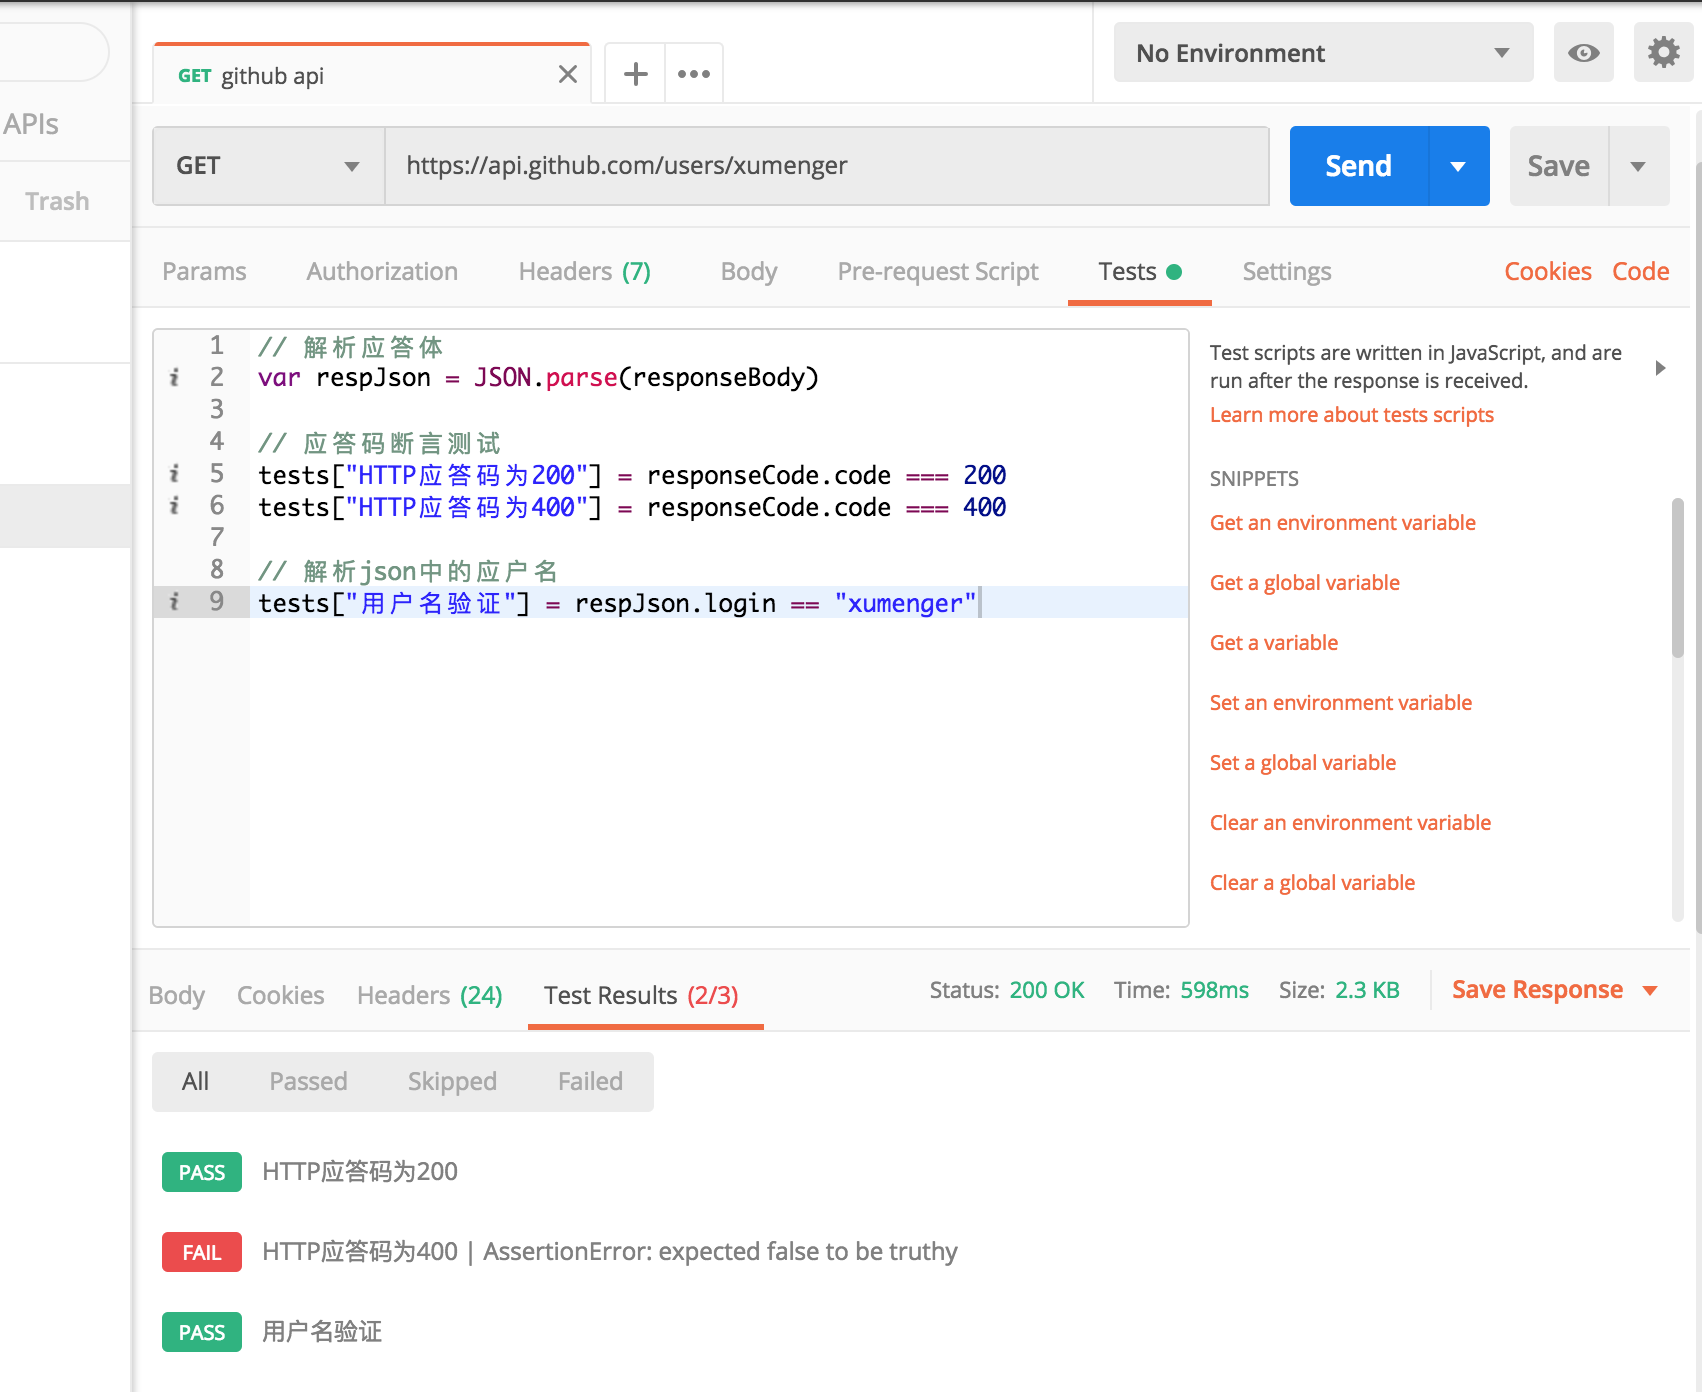
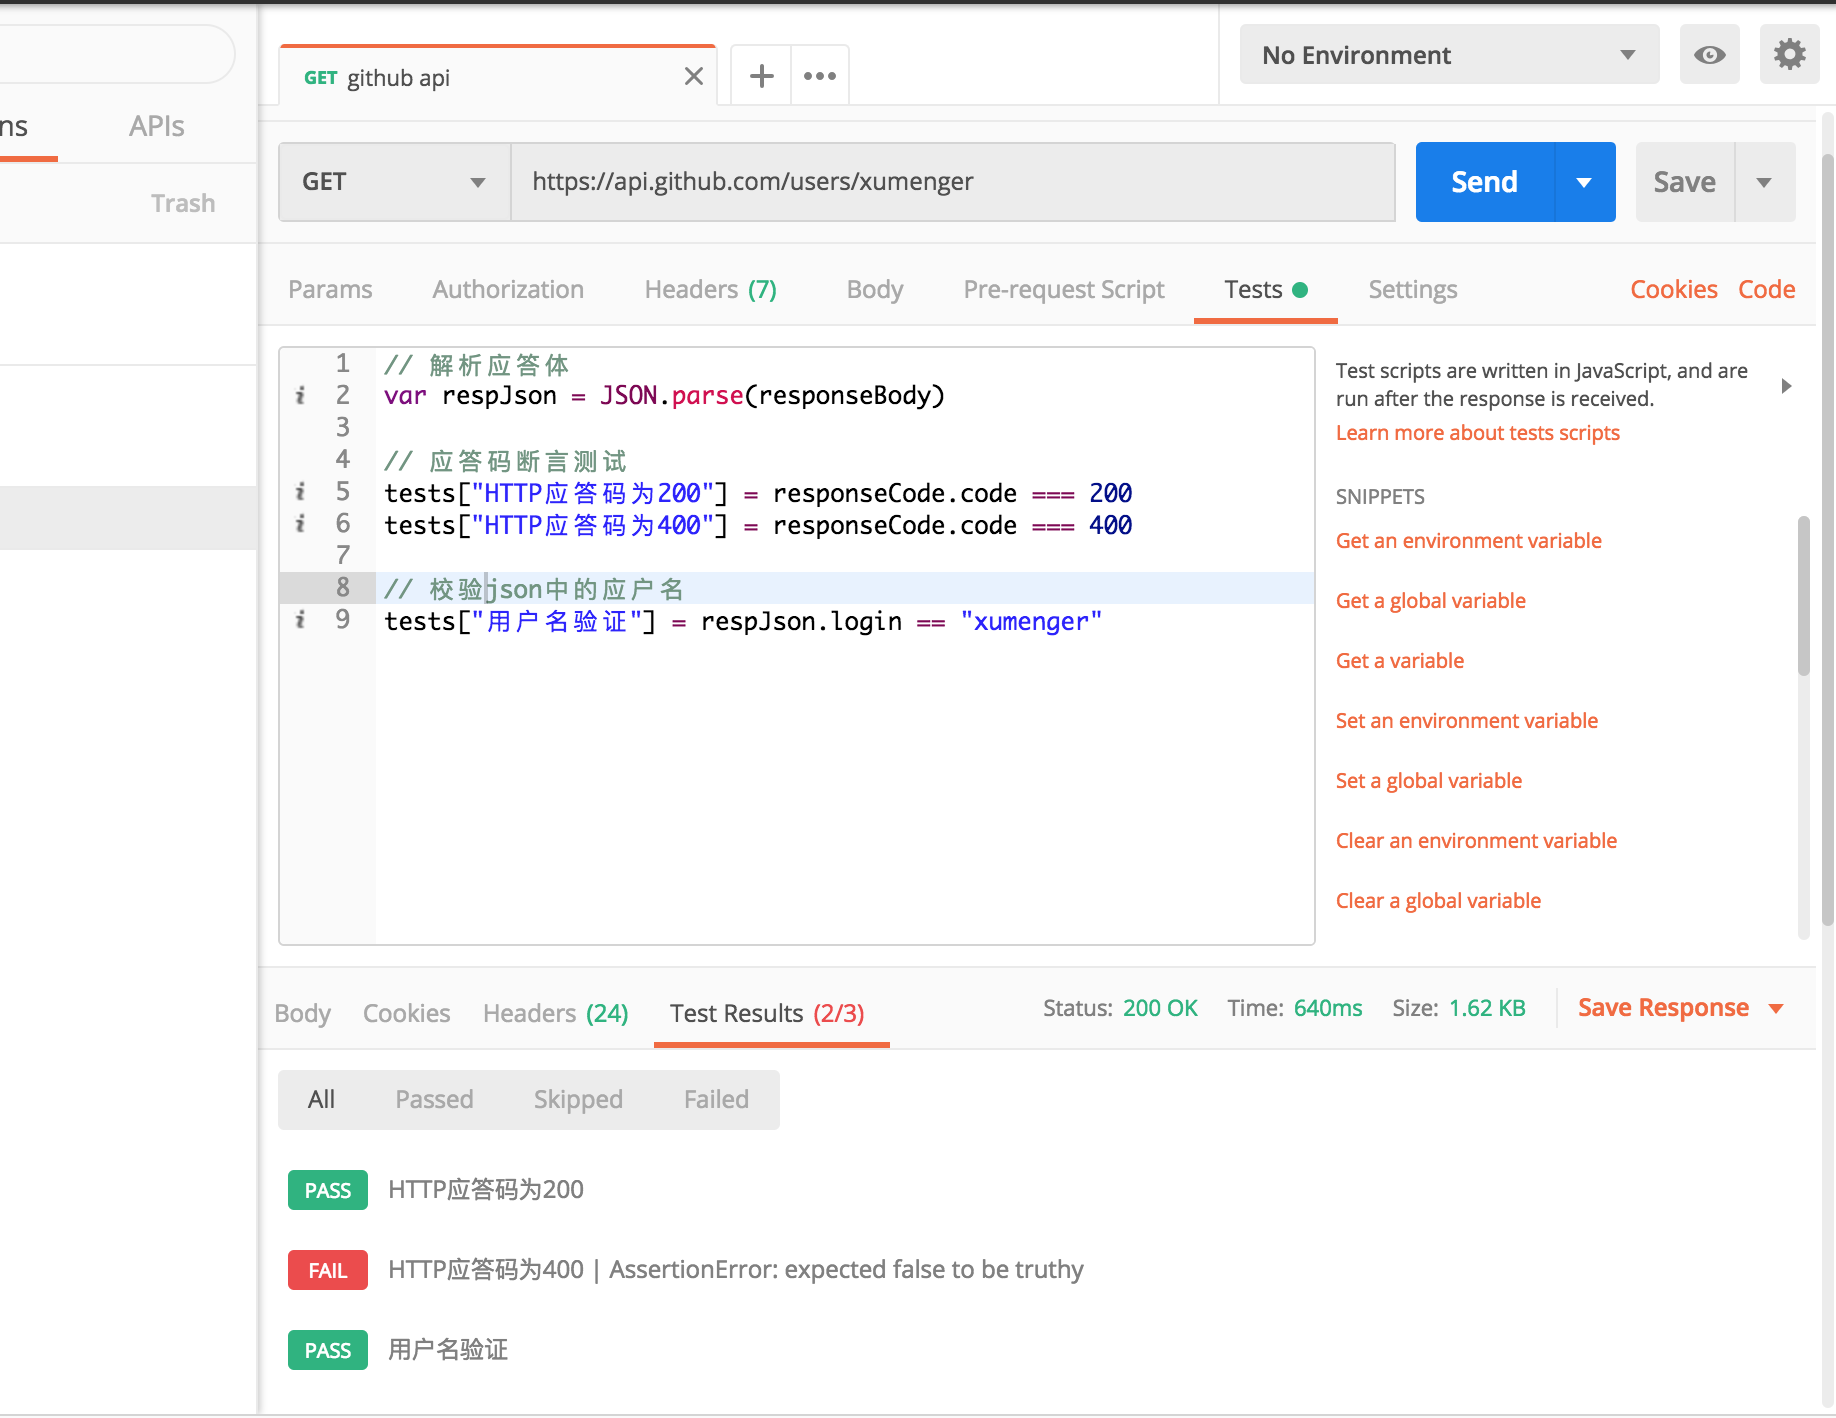
Postman

diff --git a/_posts/2020-03-28-postman-http-20200328.md b/_posts/2020-03-28-postman-http-20200328.md
@@ -26,7 +26,9 @@ tags: HTTP 网络 JSON JavaScript Postman RESTful
     "html_url": "https://github.com/xumenger",
     "followers_url": "https://api.github.com/users/xumenger/followers",
 
-    ...
+    .
+    .
+    .
 }
 ```
 
@@ -46,7 +48,7 @@ var respJson = JSON.parse(responseBody)
 tests["HTTP应答码为200"] = responseCode.code === 200
 tests["HTTP应答码为400"] = responseCode.code === 400
 
-// 解析json中的应户名
+// 校验json中的应户名
 tests["用户名验证"] = respJson.login == "xumenger"
 ```
 
@@ -67,3 +69,4 @@ tests["用户名验证"] = respJson.login == "xumenger"
 * [Python的Requests库：HTTP请求和响应](http://www.xumenger.com/python-request-02-20170114/)
 * [Postman Pre-request 使用](https://www.jianshu.com/p/cae50f9b61ab)
 * [postman pre-request-script 操作方法记录](https://www.cnblogs.com/zjhblogs/p/10219346.html)
+* [Postman使用详解](https://www.cnblogs.com/xiaoxi-3-/p/7839278.html)
